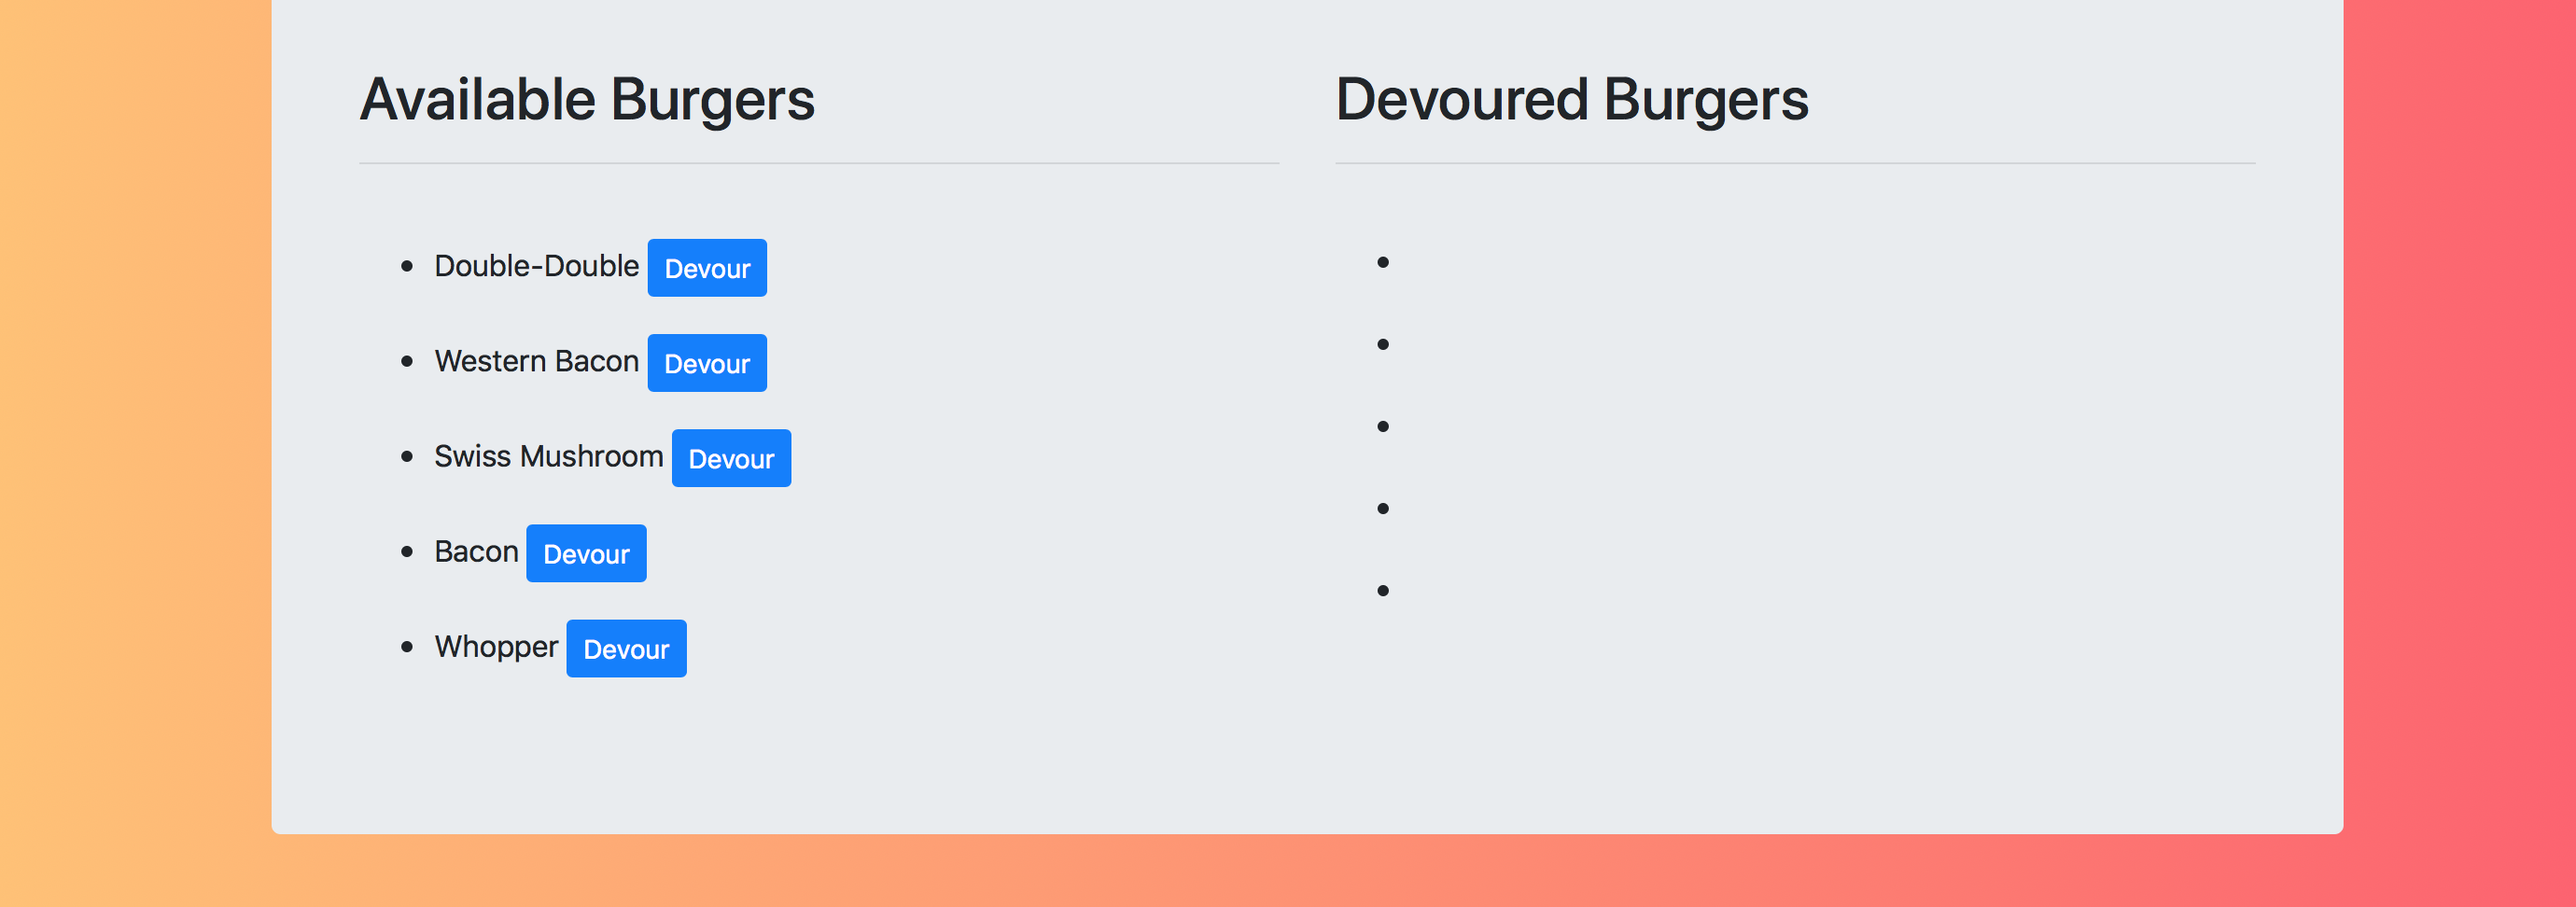
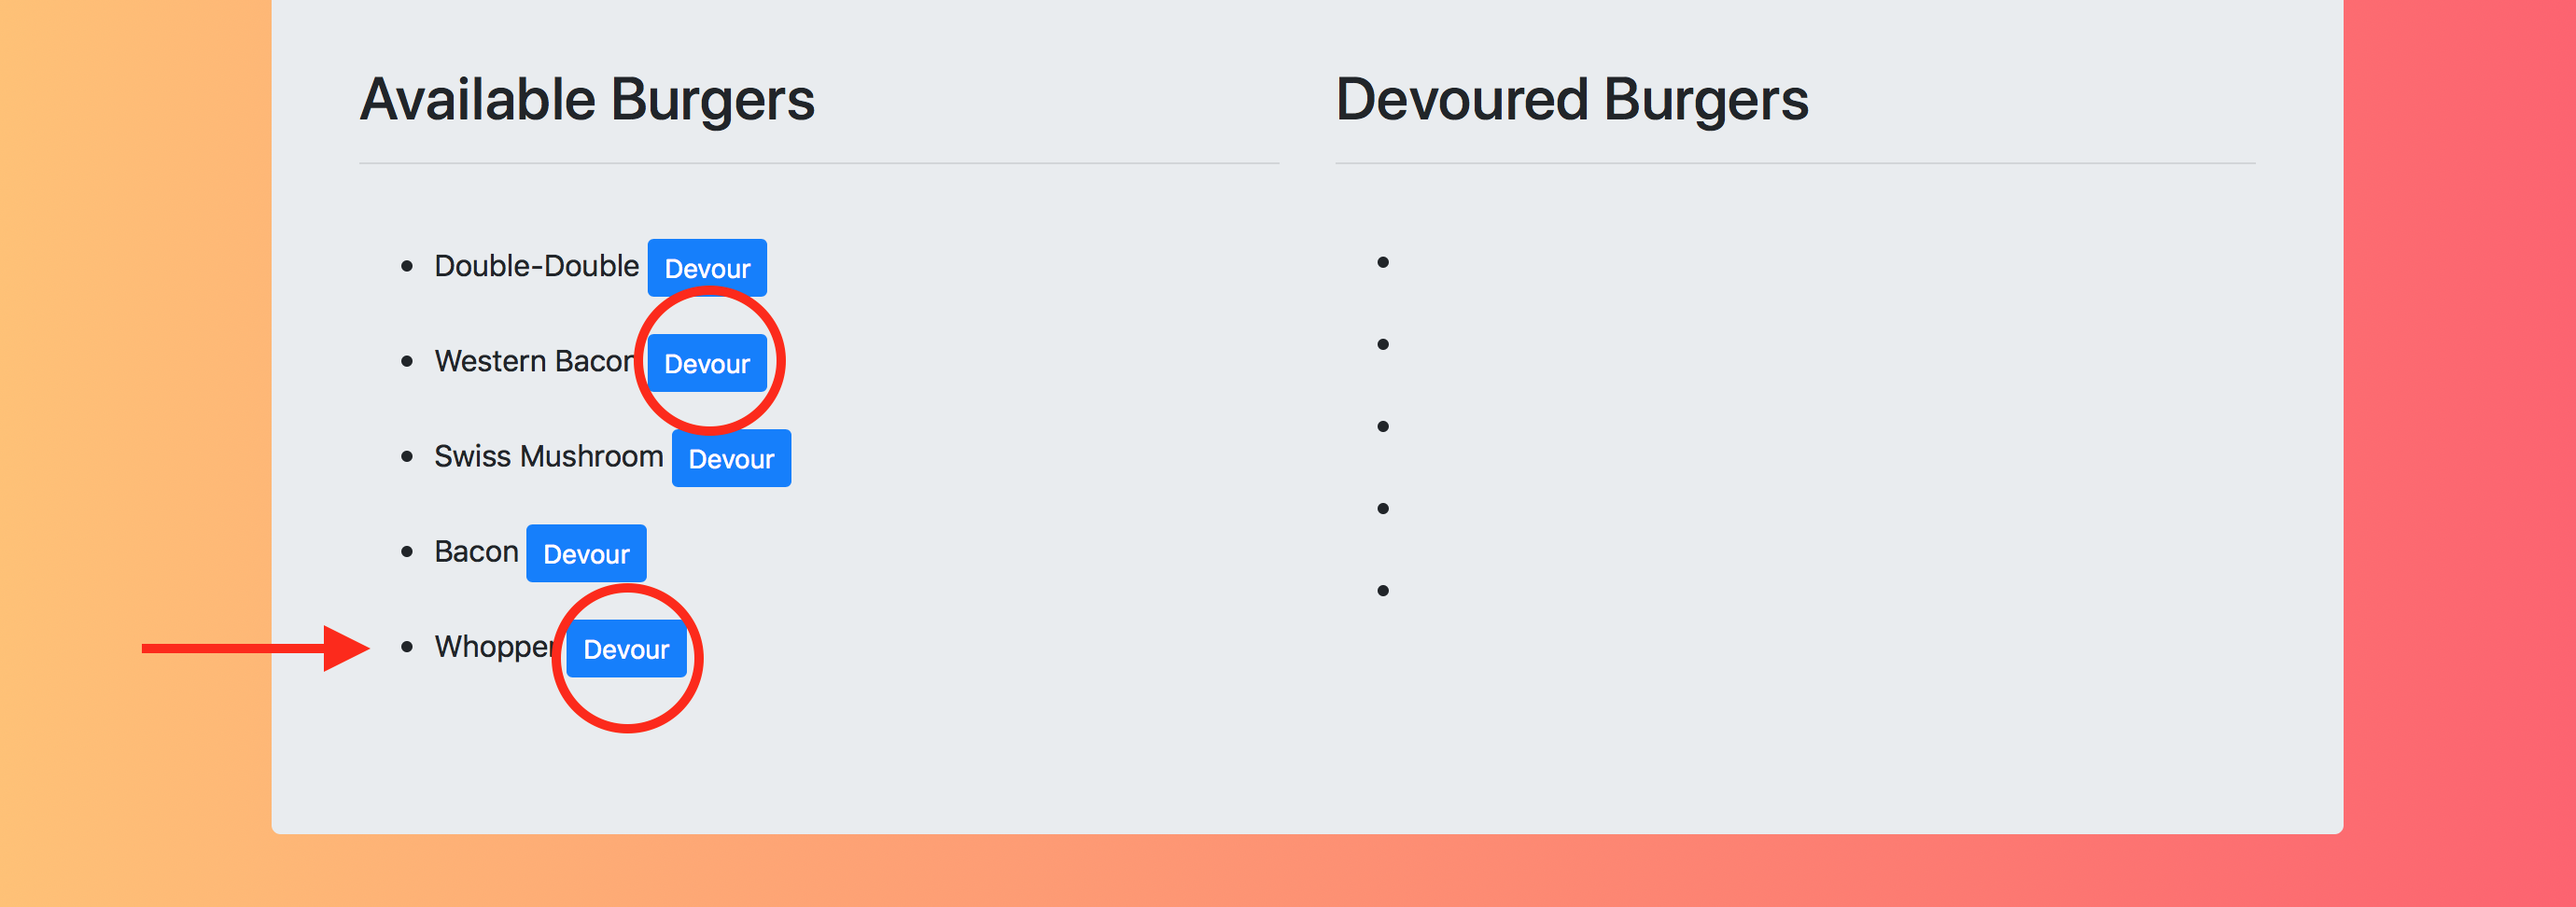
UPDATED README

diff --git a/README.md b/README.md
@@ -28,41 +28,27 @@ The purpose of this project is to gain experience on how to use Node and MySQL t
 Please install each of the packages listed above by typing 'npm install [Package Name]' in the command line.
 ```
 
-# Instructions
-To use the web application:
-
-1. 
-
-2. 
-
-3. 
-
-4. 
-
 # Demo (images)
-## 1. Welcome Prompt
-Prompt when the CLI is run. If the customer responds 'yes' the Products Table will display. If the the customer responds 'no' the script will stop.
+## 1. Intro
+Users will be greeted with two lists. The list on the left will display burgers that are available to be devoured. The list on the right displays burgers that have already been devoured. 
 ![Intro Image](public/assets/img/1.png?raw=true)
 ---
 
-## 2. Products Table
-Table displaying all products within a table when the user responds 'yes.' This table displays 10 items with the values: Item ID, Product [Name], Department, Price, and Stock (quantity).
-![Intro Image](images/2-Welcome-Table.png?raw=true)
+## 2. Adding a burger
+If there are no burgers available, or the available options do not appear appetizing to the user, they can add their own burger. Below the two burger lists, there is a text form where the user can input the name of the burger they would like to devour. Once the submit button is clicked, the newly-created burger will appear in the 'Available Burgers' list. This is using CREATE out of the CRUD SQL commands.
+![Intro Image](public/assets/img/2.png?raw=true)
 ---
 
-## 3. Purchase prompt
-User is prompted to choose item they wish to purchase via the Item ID number. They are also prompted to choose how many items they would like to purchase.
-![Intro Image](images/3-ID_Quantity.png?raw=true)
+## 3. Devouring a burger
+Here we can see that the newly-created burger (Whooper) was indeed added to the 'Available Burgers' list.
+
+To the right of every burger name, there is a 'Devour' button. If this button is clicked, the burger will be 'devoured' and will consequently be displayed on the 'Devoured Burgers' list. This is using UPDATE out of the CRUD SQL commands. 
+![Intro Image](public/assets/img/3.png?raw=true)
 ---
 
 ## 4. Updated Database
-The MySQL database is updated and displayed according to the item that was purchased. The quantity that the customer is purchasing is subtracted from the previous stock quantity. User is also given and confirmation of the item quantity and total price.
-![Intro Image](images/4-UpdatedStock.png?raw=true)
----
-
-## NOTE: Validation for stock quantity
-If a user requests to purchase more units than is currently in stock, they will be informed that there is insufficient quantity. They will then be prompted to make another selection.
-![Intro Image](images/5-InsufficientQuantity.png?raw=true)
+The appropriate burgers from the 'Available Burgers' list have been moved to their respective spot on the 'Devoured Burgers' list base on the id number. This data will be persisten because it is being stored and managed with a MySQL database.
+![Intro Image](public/assets/img/4.png?raw=true)
 ---
 
 ## Contributers
